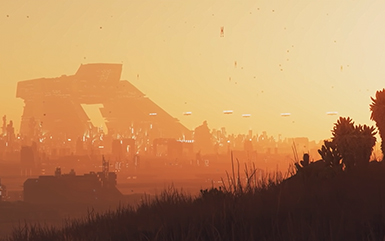
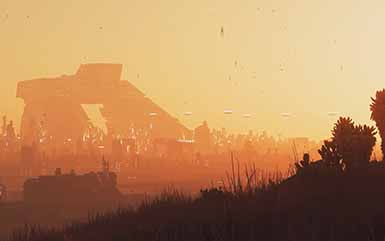
e

diff --git a/about.html b/about.html
@@ -44,12 +44,12 @@
                 <p>Lorem ipsum dolor sit, amet consectetur adipisicing elit. Harum magni neque similique explicabo provident natus fuga molestias aliquam soluta dolorum laudantium officiis, eveniet eius, voluptas aperiam deleniti officia voluptates quia.</p>
             </article>
             <article>
-                <img src="img/time-travel.png" alt="Time Travel Technology">
+                <img src="img/time-travel.jpg" alt="Time Travel Technology">
             </article>
         </section>
         <section class="row halves">
             <article>
-                <img src="img/tt-history.png" alt="Time Travel History">
+                <img src="img/tt-history.jpg" alt="Time Travel History">
             </article>
             <article>
                 <h2>Time Travel Primer</h2>
